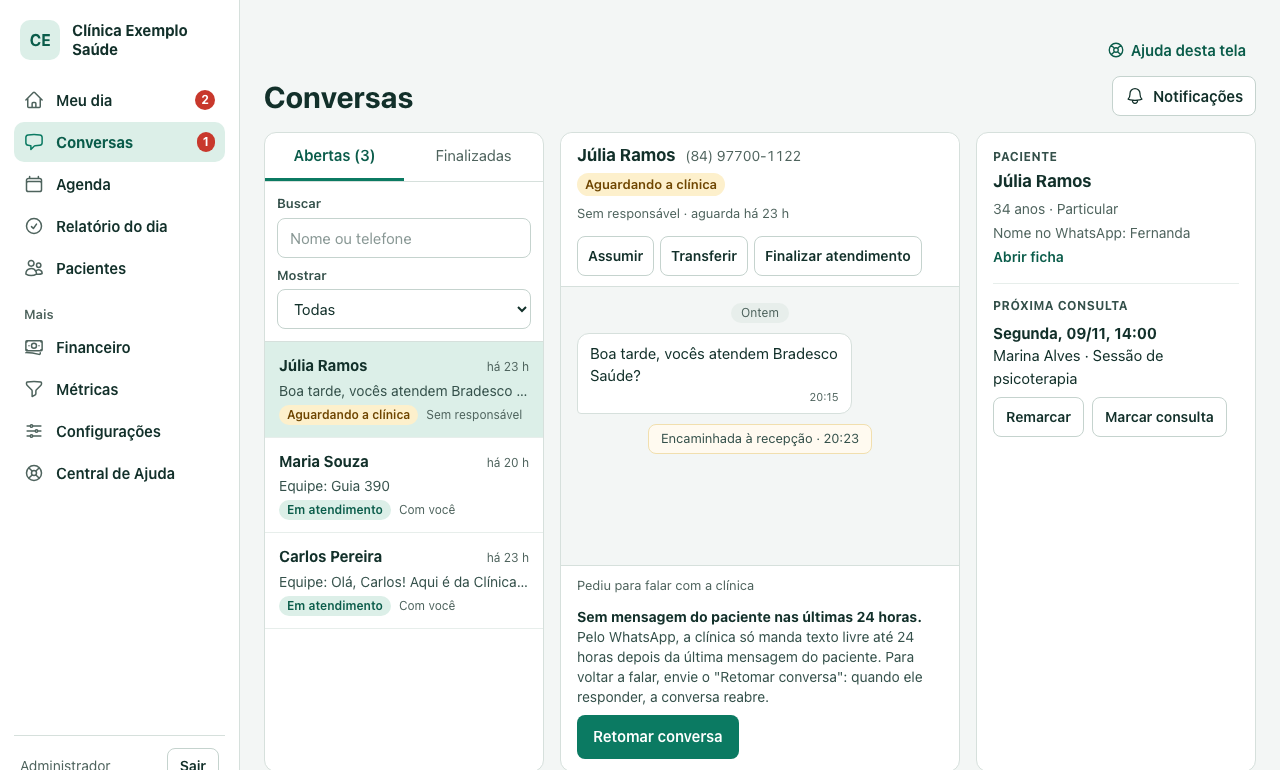
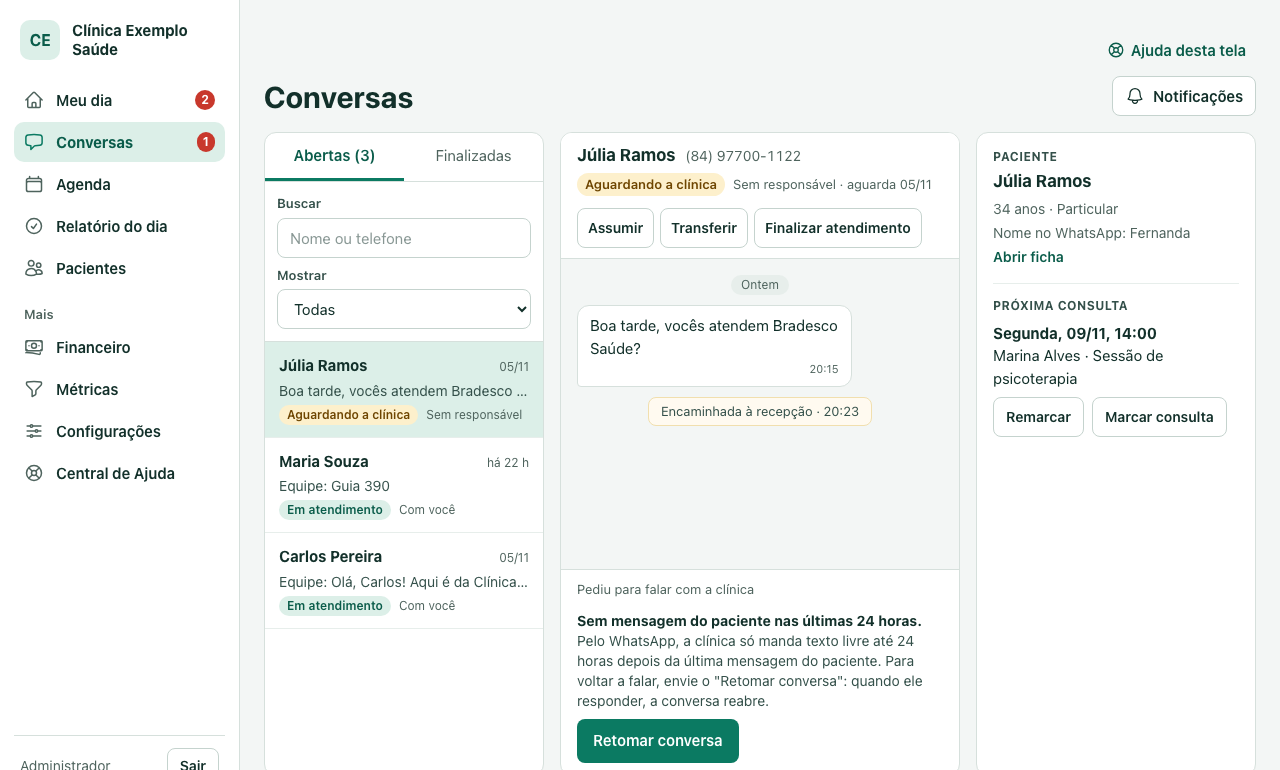
Central de Ajuda: capturas conversas e config-agendas refeitas

diff --git a/docs/README.md b/docs/README.md
@@ -13,11 +13,11 @@
 >
 > **Nome da agenda (06/nov):** agenda de profissional sempre com o nome dele; "Exames" automática com o item
 > (migração `20261225120000` aplicada no staging; produção não). Na `main` (staging); cliente valida. Captura
-> `config-agendas` pendente. **Push na `main` só com autorização do cliente (06/nov).**
+> `config-agendas` refeita. **Push na `main` só com autorização do cliente (06/nov).**
 >
 > **Conversas como o WhatsApp + anexo + bot (06/nov):** tela na altura da janela no computador, conversa em tela cheia
 > no celular com a caixa fixa, CSP liberando o Storage (anexo) e confirmação do pedido de recepção digitado. Commit
-> local, sem push (aguarda o cliente). Captura `conversas` pendente.
+> no staging (06/nov). Captura `conversas` refeita.
 >
 > **Aviso da mensagem automática do app em 6 h (06/nov):** era 7 dias. Vai para a produção **junto com a Central**
 > (cliente, 06/nov), não sozinho.

diff --git a/docs/capturas-pendentes.md b/docs/capturas-pendentes.md
@@ -9,6 +9,4 @@ a captura e o motivo, avisar o cliente no fim da etapa e esperar a autorização
 
 ## Pendentes
 
-- `conversas` — tela na altura da janela no computador (06/11/2026)
-- `config-agendas` — sem "Nova agenda da equipe"; formulário sem o campo Nome (06/11/2026)
 (nenhuma)
